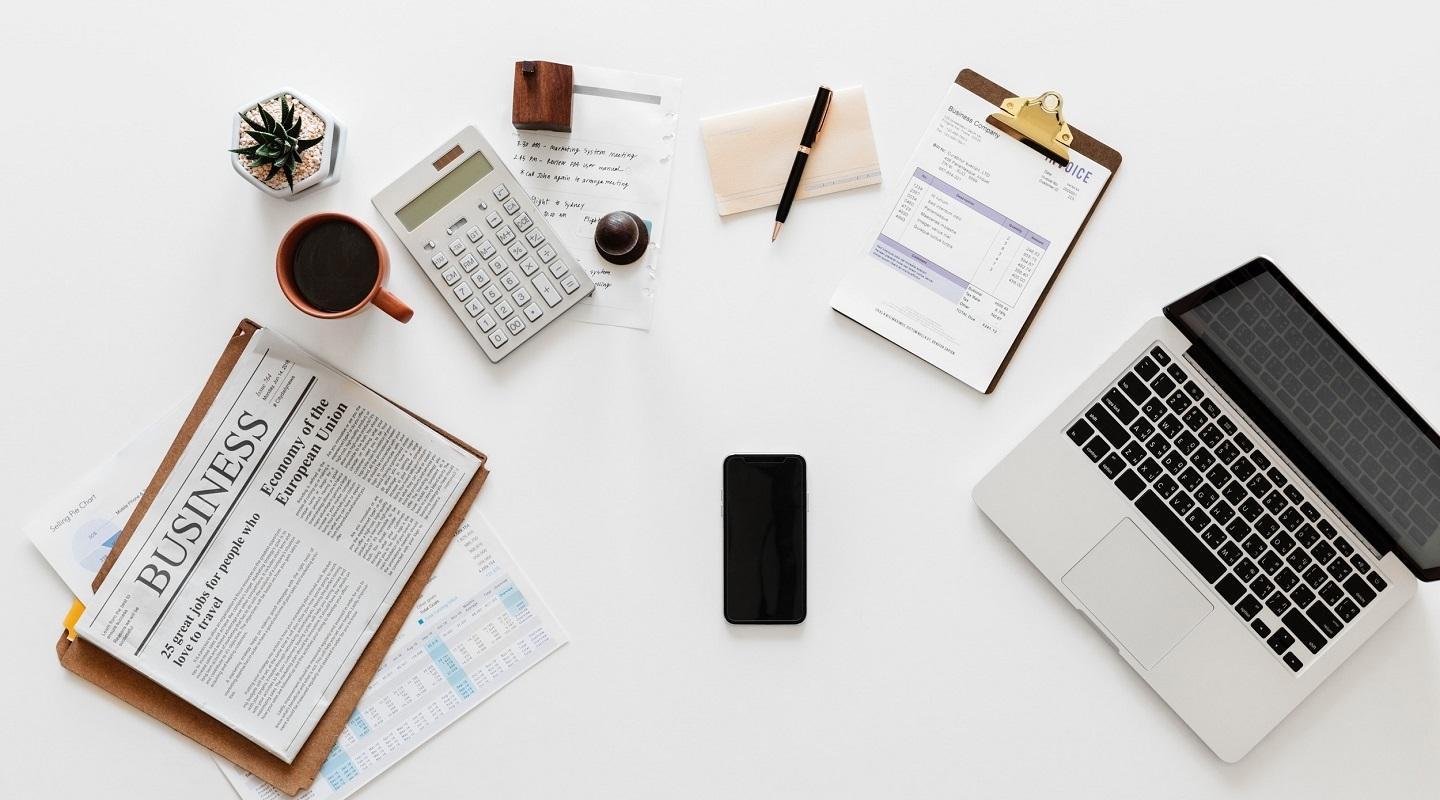
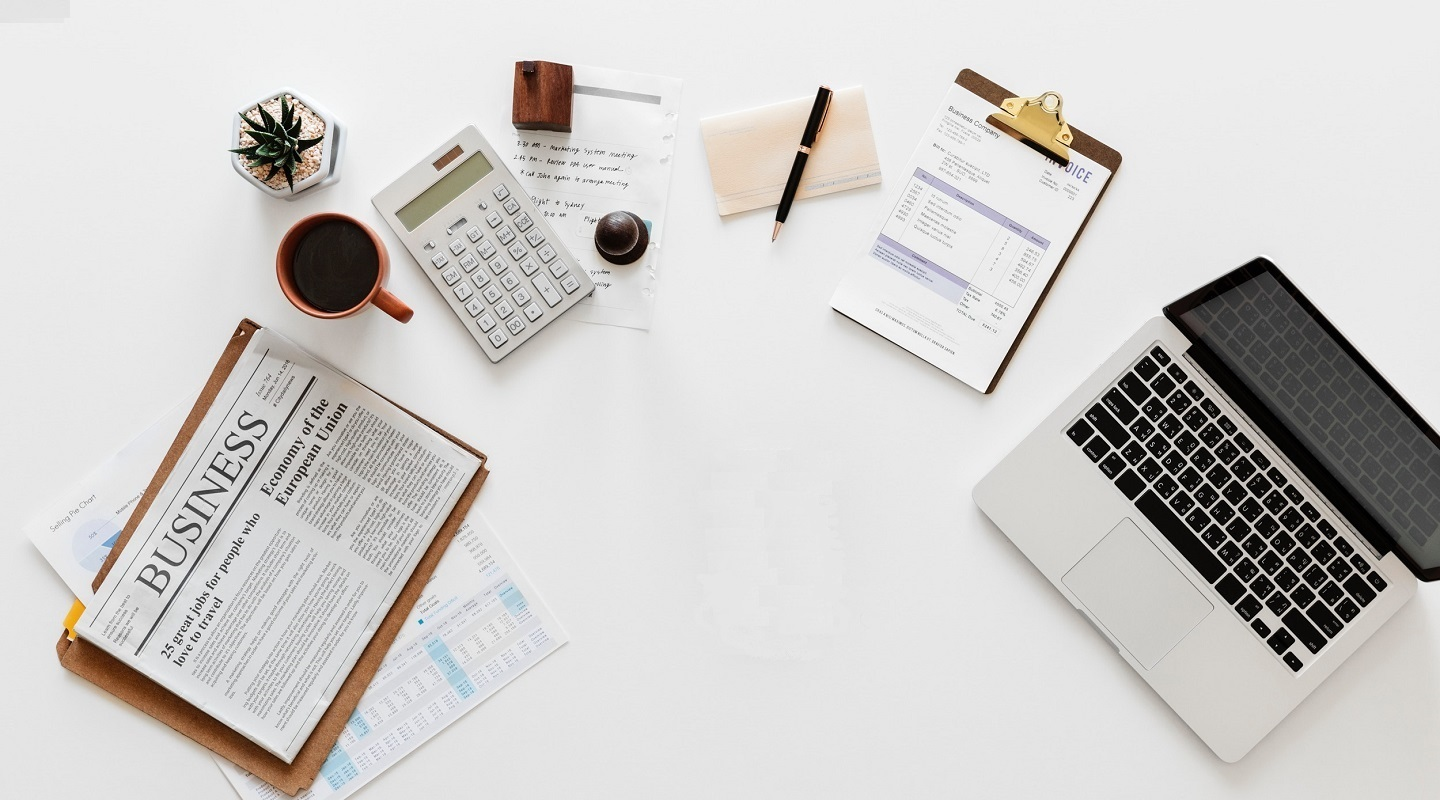
header worked

Changed region(s): [[0.5, 0.5625, 0.5625, 0.8125]]

diff --git a/demo2.css b/demo2.css
@@ -40,7 +40,7 @@
     background-image: url( 'assets/homePage.jpg' );
     background-repeat: no-repeat;
     background-position: center;
-    background-size: initial;
+    background-size: cover;
      width: 100%;
      height: auto;
      overflow: hidden;
@@ -57,14 +57,29 @@
     position: absolute;
     left: auto;
     right: auto;
-    top:40%; 
-    font-family: 'Playfair Display SC', serif;
+    top :42.3%; 
+    width: 566px;
+}
+.text-overlay h4 {
+    font-family: 'Bree Serif', serif;
     font-size: 60px;
-    font-weight: 900;
+    font-weight: 500;
     color: #173560;
-    overflow-wrap: break-word;
-    width: 400px;
-
+    margin-bottom: 15px;    
+}
+.text-overlay p{
+    font-family: 'Bree Serif', serif;
+    font-size: 24px;
+    font-weight: 400;
+    color: #173560;
+    margin-bottom: 40px;
+}
+.text-overlay .btn-default {
+    background-color: #337ab7;
+    padding: 20px 40px;
+    border: none;
+    color: #fff;
+    text-transform: uppercase;
 }
 #brand {
     background-image: url('assets/logo-large.svg');

diff --git a/header.html b/header.html
@@ -9,6 +9,7 @@
     <link href="css/style.css" rel="stylesheet">
     <link rel="shortcut icon" href="https://mdbootstrap.com/wp-content/themes/mdbootstrap4/favicon.ico">
     <link href="https://fonts.googleapis.com/css?family=Playfair+Display+SC" rel="stylesheet">
+    <link href="https://fonts.googleapis.com/css?family=Bree+Serif" rel="stylesheet">
 </head>
 <body>
          <nav id="header" class="navbar navbar-fixed-top">
@@ -34,7 +35,11 @@
             </div><!-- /.container -->
         </nav><!-- /.navbar -->
     <section class="text-center" id="homeImg">
-        <p class="text-overlay">Trenger du regnskapsfører?</p>
+        <div class="text-overlay">
+            <h4>Autorisert regnskapførerselskap</h4>
+               <p> Vi har lang erfaring fra regnskapsbyråbransjen og er klare for nye utfordringer og oppdrag!</p>
+               <button type="button" class="btn btn-default">Se våre tjenester</button>
+        </div>
     </section>
 
     <div id="wrapper">
